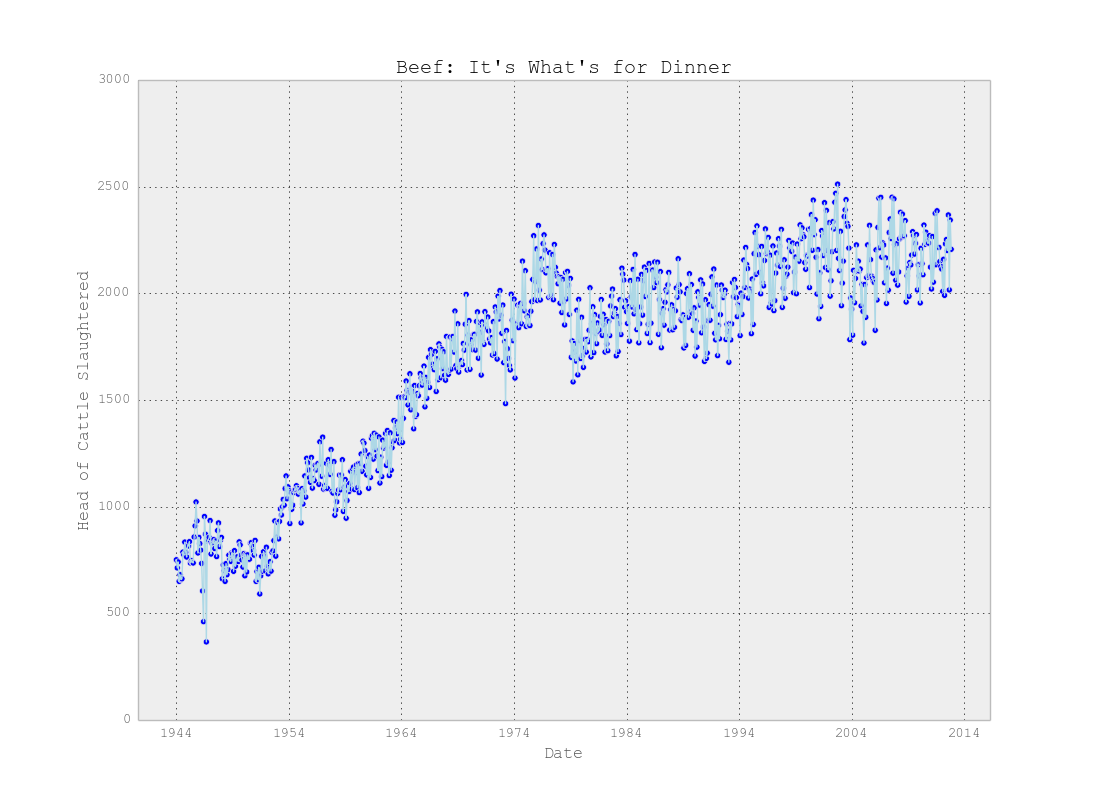
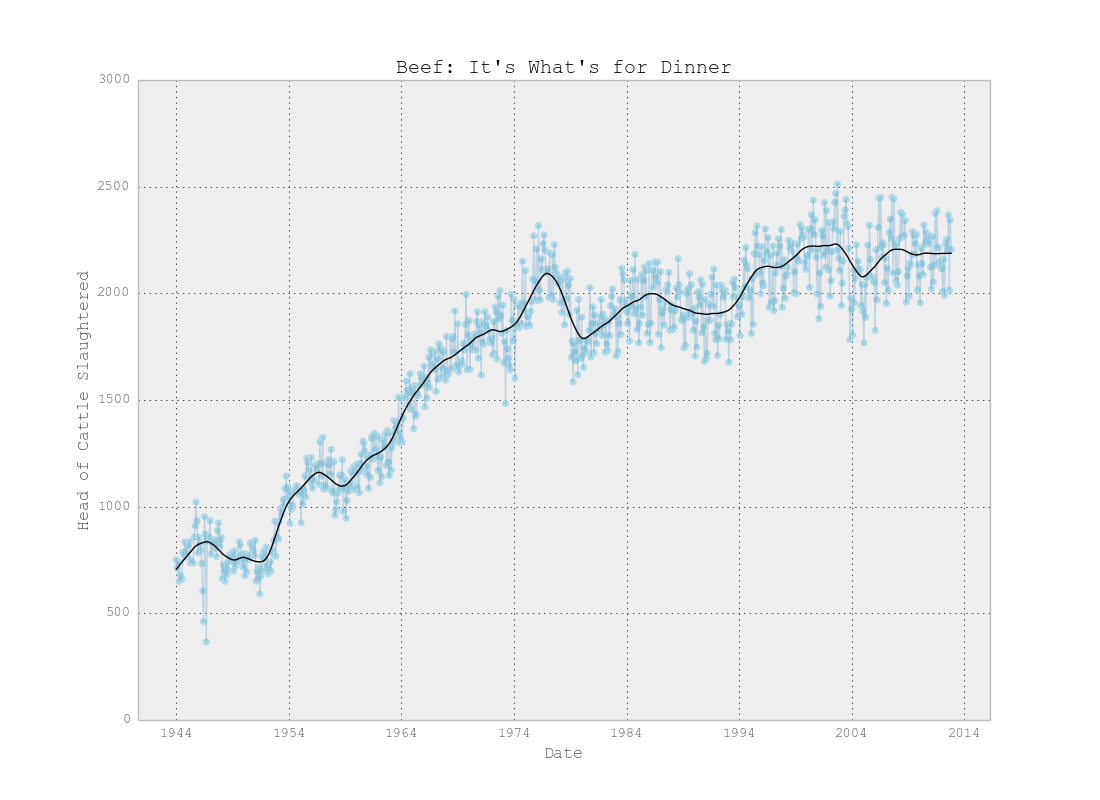
new readme

Changed region(s): [[0.1545, 0.25, 0.8655, 0.75]]

diff --git a/README.md b/README.md
@@ -3,8 +3,9 @@
 from ggplot import *
 
 ggplot(aes(x='date', y='beef'), data=meat) + \
-    geom_point() + \
-    geom_line(color='lightblue') + \
+    geom_point(color='lightblue') + \
+    geom_line(alpha=0.25) + \
+    stat_smooth(span=.05, color='black') + \
     ggtitle("Beef: It's What's for Dinner") + \
     xlab("Date") + \
     ylab("Head of Cattle Slaughtered")
@@ -35,6 +36,14 @@ Yes, it's another implementation of [`ggplot2`](https://github.com/hadley/ggplot
     $ pip install ggplot
 
 ### Examples
+```
+meat_lng = pd.melt(meat[['date', 'beef', 'pork', 'broilers']], id_vars='date')
+ggplot(aes(x='date', y='value', colour='variable'), data=meat_lng) + \
+    geom_point() + \
+    stat_smooth()
+```
+<img src="public/img/ggplot_meat.csv">
+
 ####`geom_point`
 ```
 from ggplot import *
